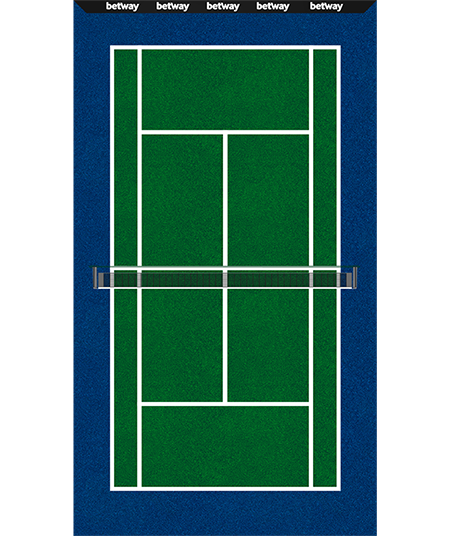
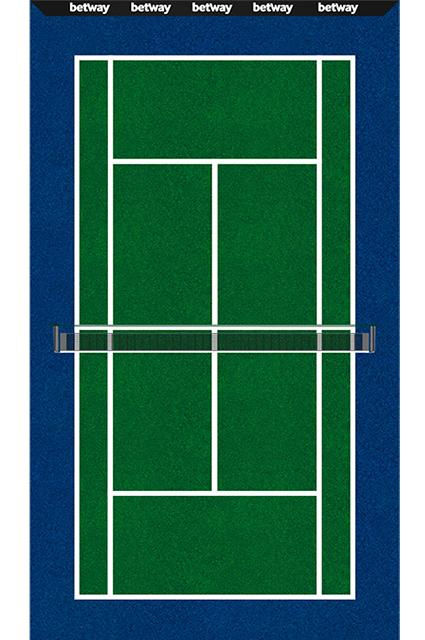
refactor(game-size): scaled game for mobile

diff --git a/scripts/game.js b/scripts/game.js
@@ -1,6 +1,6 @@
-      
-   var game_width = 450;  // 500		
-   var game_height = 536;	 //600	
+         
+   var game_width = 425;  // 500		
+   var game_height = 640;	 //600	
     
     var game = new Phaser.Game(game_width, game_height, Phaser.AUTO, 'phaser-game', { preload: preload, create: create, update: update }),
 				playerBet,
